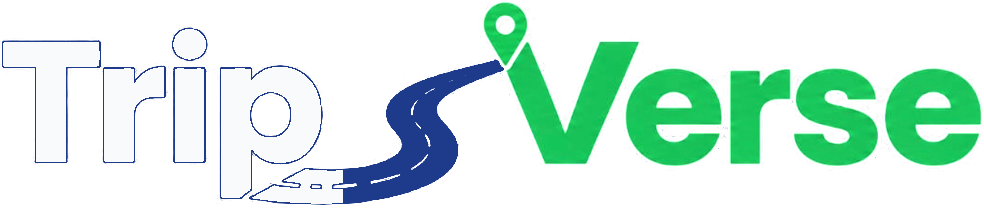
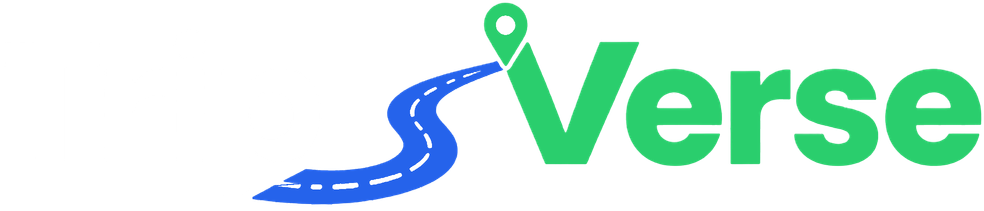
fix(brand): fix night-mode wordmark road split, outline, and pin/dash fills

diff --git a/src/components/common/Logo.tsx b/src/components/common/Logo.tsx
@@ -28,8 +28,8 @@ export const BrandIconMark: React.FC<BrandIconMarkProps> = ({
   if (!imgFailed) {
     return (
       <img
-        src="/tripverse-mark.png?v=12"
-        srcSet="/tripverse-mark.png?v=12 1x, /tripverse-mark@2x.png?v=12 2x, /tripverse-mark@3x.png?v=12 3x"
+        src="/tripverse-mark.png?v=13"
+        srcSet="/tripverse-mark.png?v=13 1x, /tripverse-mark@2x.png?v=13 2x, /tripverse-mark@3x.png?v=13 3x"
         alt="TripVerse Logo"
         onError={() => setImgFailed(true)}
         style={{ imageRendering: '-webkit-optimize-contrast' }}
@@ -265,8 +265,8 @@ export const Logo: React.FC<LogoProps> = ({
             {/* Light Mode Wordmark: Dark Navy 'Trip' + Forest Green 'Verse' (hidden in night mode) */}
             {(variant === 'dark' || isAuto) && (
               <img
-                src="/tripverse-title.png?v=12"
-                srcSet="/tripverse-title.png?v=12 1x, /tripverse-title@2x.png?v=12 2x"
+                src="/tripverse-title.png?v=13"
+                srcSet="/tripverse-title.png?v=13 1x, /tripverse-title@2x.png?v=13 2x"
                 alt="TripVerse"
                 onError={() => setTitleImgFailed(true)}
                 style={{ imageRendering: '-webkit-optimize-contrast' }}
@@ -282,8 +282,8 @@ export const Logo: React.FC<LogoProps> = ({
             {/* Night / Dark Mode Wordmark: Crisp Luminous Pearl 'Trip' + Vibrant Emerald 'Verse' (visible in night mode) */}
             {(variant === 'light' || isAuto) && (
               <img
-                src="/tripverse-title-dark.png?v=12"
-                srcSet="/tripverse-title-dark.png?v=12 1x, /tripverse-title-dark@2x.png?v=12 2x"
+                src="/tripverse-title-dark.png?v=13"
+                srcSet="/tripverse-title-dark.png?v=13 1x, /tripverse-title-dark@2x.png?v=13 2x"
                 alt="TripVerse"
                 onError={() => setTitleImgFailed(true)}
                 style={{ imageRendering: '-webkit-optimize-contrast' }}

diff --git a/public/sw.js b/public/sw.js
@@ -1,4 +1,4 @@
-const CACHE_NAME = 'tripverse-cache-v66';
+const CACHE_NAME = 'tripverse-cache-v67';
 const TILE_CACHE_NAME = 'tripverse-map-tiles-v1';
 const PRECACHE_ASSETS = [
   '/',
